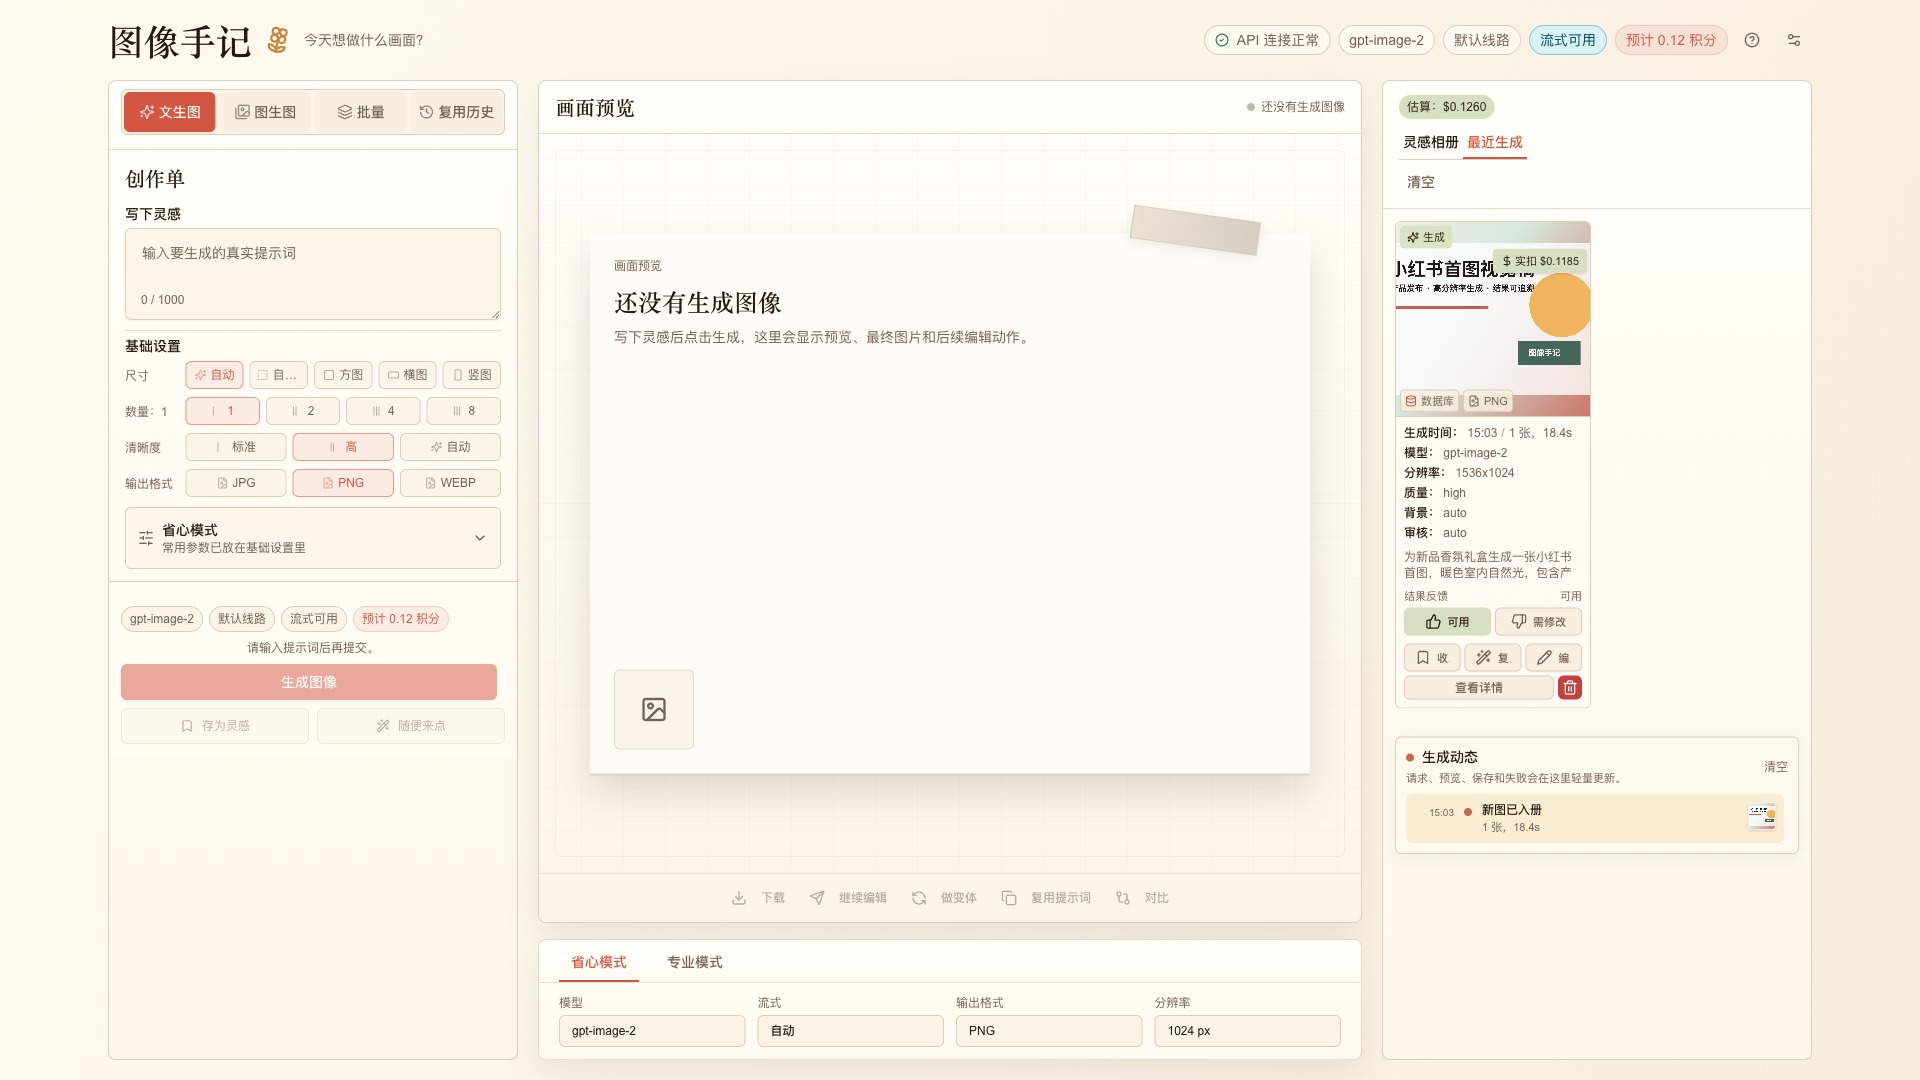
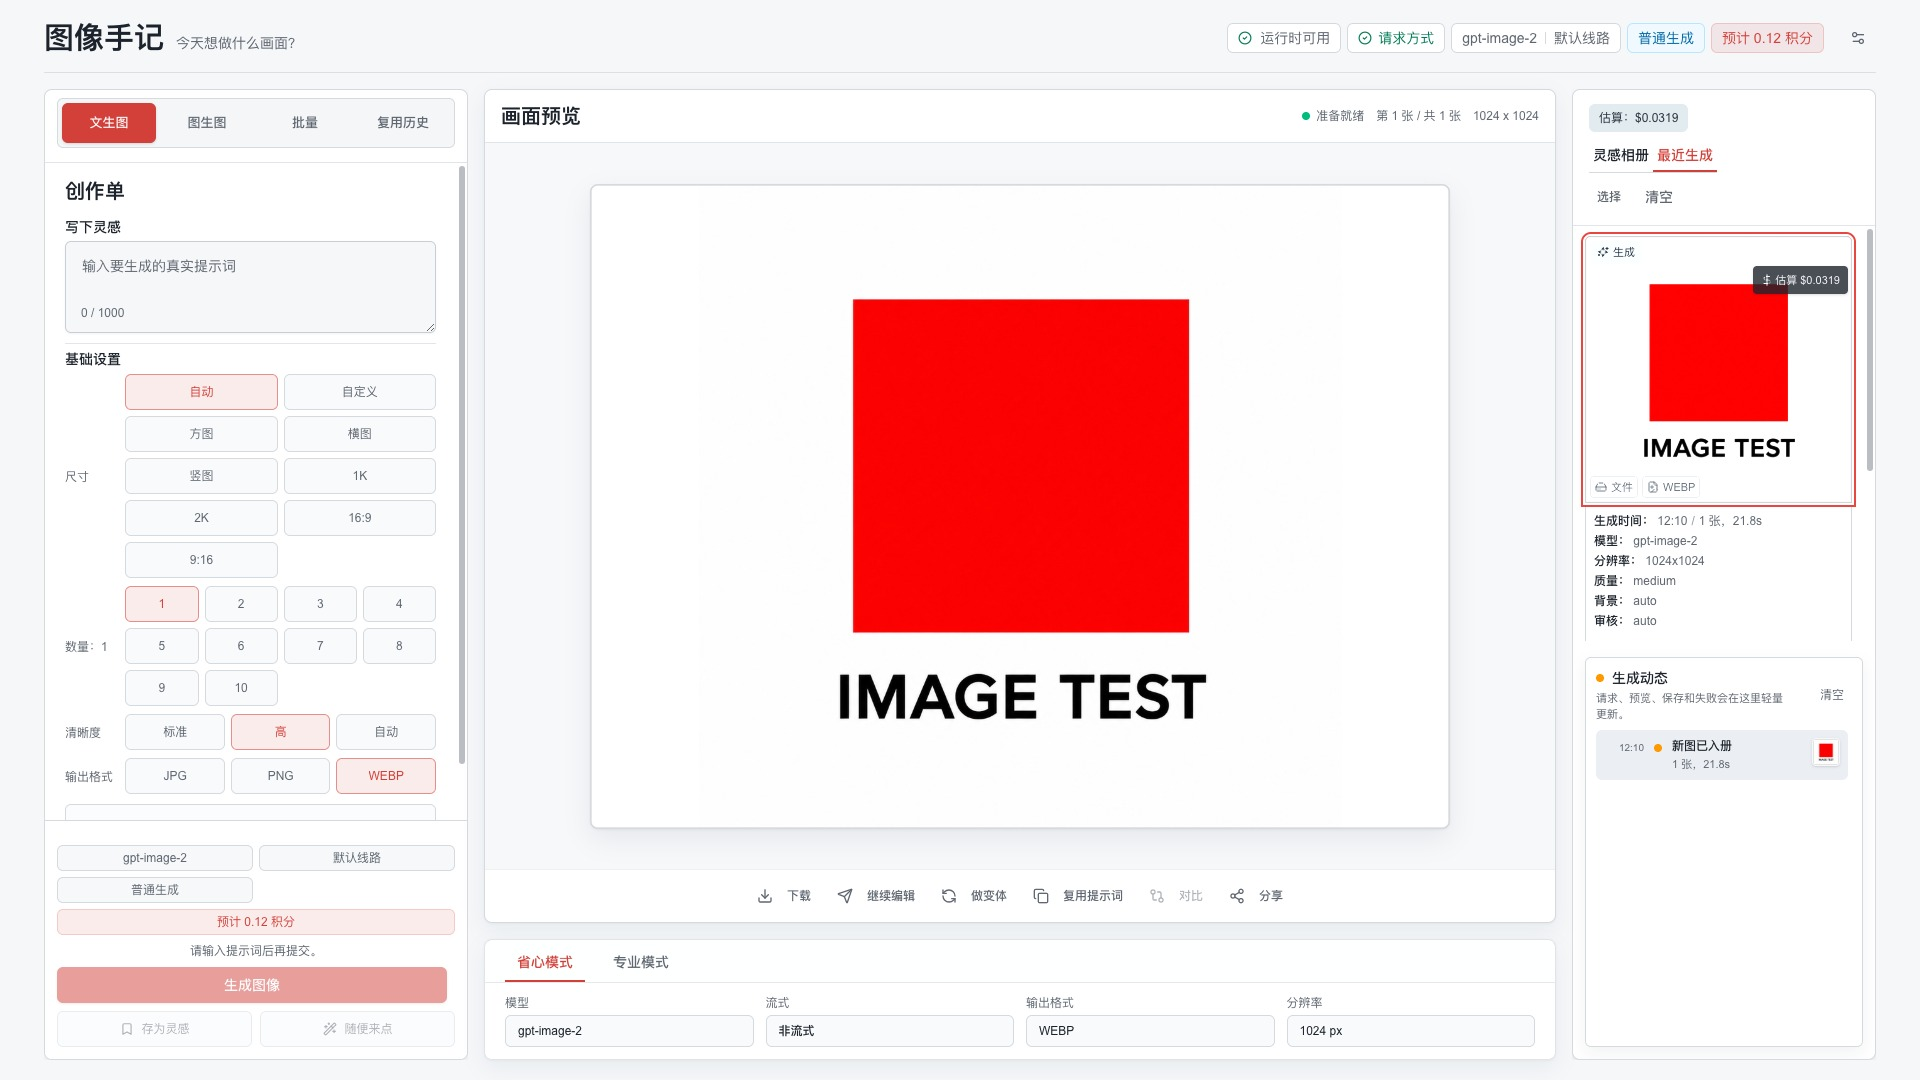
docs: refresh webui screenshots

diff --git a/README.md b/README.md
@@ -12,7 +12,7 @@ app_port: 4783
 本地 AI 图片创作工作台，面向中文内容运营、设计草图和自动化生图流程。支持 `gpt-image-2`、OpenAI 兼容图片接口、文生图、图生图、遮罩编辑、批量任务、历史复用、费用追踪和 Agent API。
 
 <p align="center">
-  <img src="./readme-images/interface.jpg?v=20260608-07b596b" alt="GPT Image Playground 界面" width="900"/>
+  <img src="./readme-images/interface.jpg?v=20260727-7f75f27" alt="GPT Image Playground 界面" width="900"/>
 </p>
 
 ## 快速开始
@@ -83,13 +83,13 @@ start-windows.bat
 遮罩编辑示例：
 
 <p align="center">
-  <img src="./readme-images/mask-creation.jpg?v=20260608-07b596b" alt="遮罩创建" width="900"/>
+  <img src="./readme-images/mask-creation.jpg?v=20260727-7f75f27" alt="遮罩创建" width="900"/>
 </p>
 
 历史与费用示例：
 
 <p align="center">
-  <img src="./readme-images/history.jpg?v=20260608-07b596b" alt="历史面板" width="900"/>
+  <img src="./readme-images/history.jpg?v=20260727-7f75f27" alt="历史面板" width="900"/>
 </p>
 
 ## 配置
